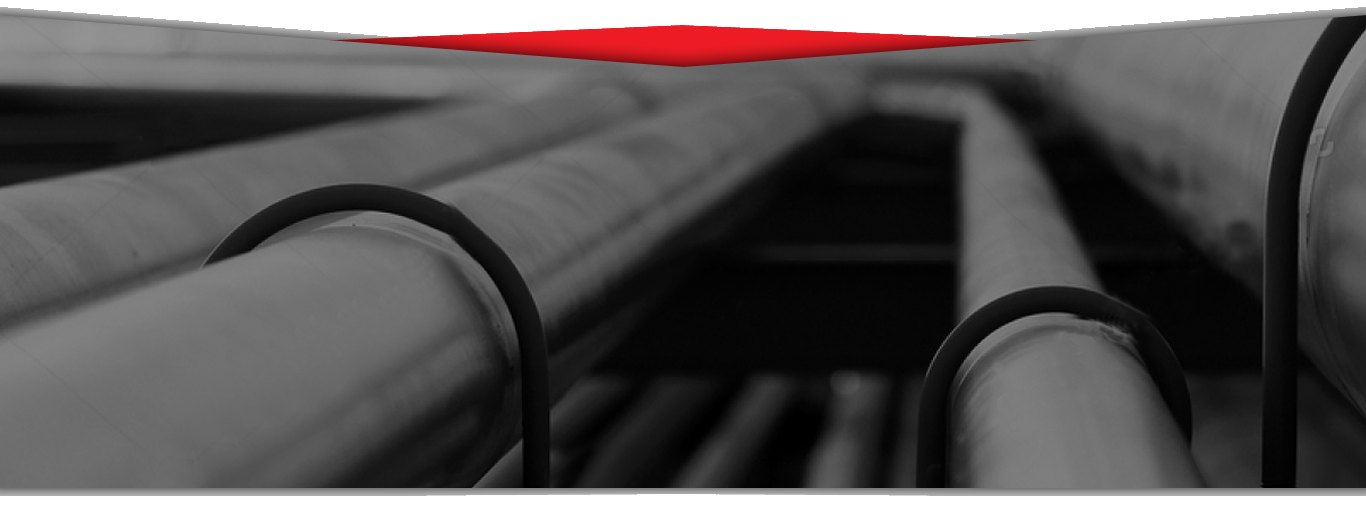
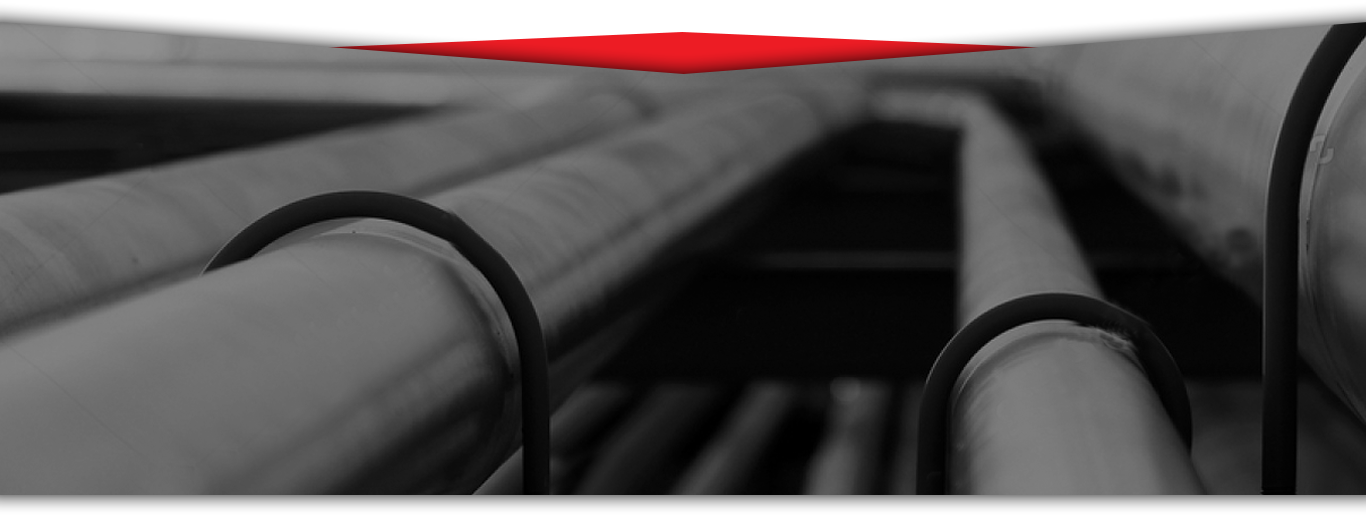
change image base

diff --git a/public/amadeo/css/home.css b/public/amadeo/css/home.css
@@ -15,6 +15,12 @@
 		width: 100%;
 		padding-top: 50px;
 	}
+	#about img#bottom{
+		position: absolute;
+		bottom: -150px;
+		width: 100%;
+		z-index: 2;
+	}
 	#about #set-wrapper{
 		position: relative;
 		margin: 0 auto;
@@ -34,6 +40,13 @@
 	#about #set-wrapper .text-center{
 		margin-top: 40px;
 	}
+	/* mobile */
+	@media (max-width: 480px) {
+			#about img#bottom{
+				bottom: -70px;
+			}
+		}
+	/* mobile */
 /* about */
 
 /* show top */
@@ -41,13 +54,9 @@
 		position: relative;
 		width: 100%;
 		background-color: rgb(217,217,217);
-		margin-top: 100px;
+		margin-top: 30px;
+		padding-top: 70px;
 		padding-bottom: 10px;
-	}
-	#show-top img#top{
-		position: absolute;
-		width: 100%;
-		top: -105px;
 	}
 	#show-top #set-wrapper{
 		position: relative;
@@ -84,9 +93,7 @@
 		@media (max-width: 480px) {
 			#show-top{
 				margin-top: 35px;
-			}
-			#show-top img#top{
-				top: -25px;
+				padding-top: 30px;
 			}
 			#show-top #set-wrapper #img{
 				float: none;
@@ -116,7 +123,7 @@
 		position: relative;
 		width: 100%;
 		height: 70vh;
-		margin-top: -35px;
+		margin-top: -45px;
 		background-repeat: no-repeat;
 		background-size: 100% 100%;
 		background-position: center;

diff --git a/public/amadeo/css/product-index.css b/public/amadeo/css/product-index.css
@@ -24,9 +24,6 @@
 		height: 150px;
 		transition: all .56s;
 	}
-	#product #set-wrapper #list .rows .bar #spacing:hover #show{
-		transform: rotate(-45deg);
-	}
 	#product #set-wrapper #list .rows .bar #spacing #show #img{
 		position: relative;
 		transform: rotate(-45deg);
@@ -40,7 +37,7 @@
 		transition: all .56s;
 	}
 	#product #set-wrapper #list .rows .bar #spacing:hover #show #img{
-		transform: rotate(405deg);
+		background-size: 65%;
 	}
 	#product #set-wrapper #list .rows .bar #spacing #show #img #descrip{
 		width: 250px;

diff --git a/public/amadeo/css/product-index-list.css b/public/amadeo/css/product-index-list.css
@@ -21,9 +21,6 @@
 		overflow: hidden;
 		transition: all .56s;
 	}
-	#product-index-list .bar #spacing:hover #show{
-		transform: rotate(-45deg);
-	}
 	#product-index-list .bar #spacing #show #img{
 		position: relative;
 		top: -40px;
@@ -37,7 +34,7 @@
 		transition: all .56s;
 	}
 	#product-index-list .bar #spacing:hover #show #img{
-		transform: rotate(405deg);
+		background-size: 65%;
 	}
 	#product-index-list .bar #spacing #descrip{
 		text-align: center;

diff --git a/resources/views/frontend/home-page/index.blade.php b/resources/views/frontend/home-page/index.blade.php
@@ -34,10 +34,10 @@
 				<a href="{{ route('frontend.about') }}" class="btn-gray">Detail</a>
 			</div>
 		</div>
+		<img id="bottom" src="{{ asset('amadeo/images-base/home-show-top.png') }}">
 	</div>
 
 	<div id="show-top">
-		<img id="top" src="{{ asset('amadeo/images-base/home-show-top.png') }}">
 		<div id="set-wrapper">
 			<div id="img">
 				<img src="{{ asset('amadeo/images-base/home-show-top-img.png') }}">
